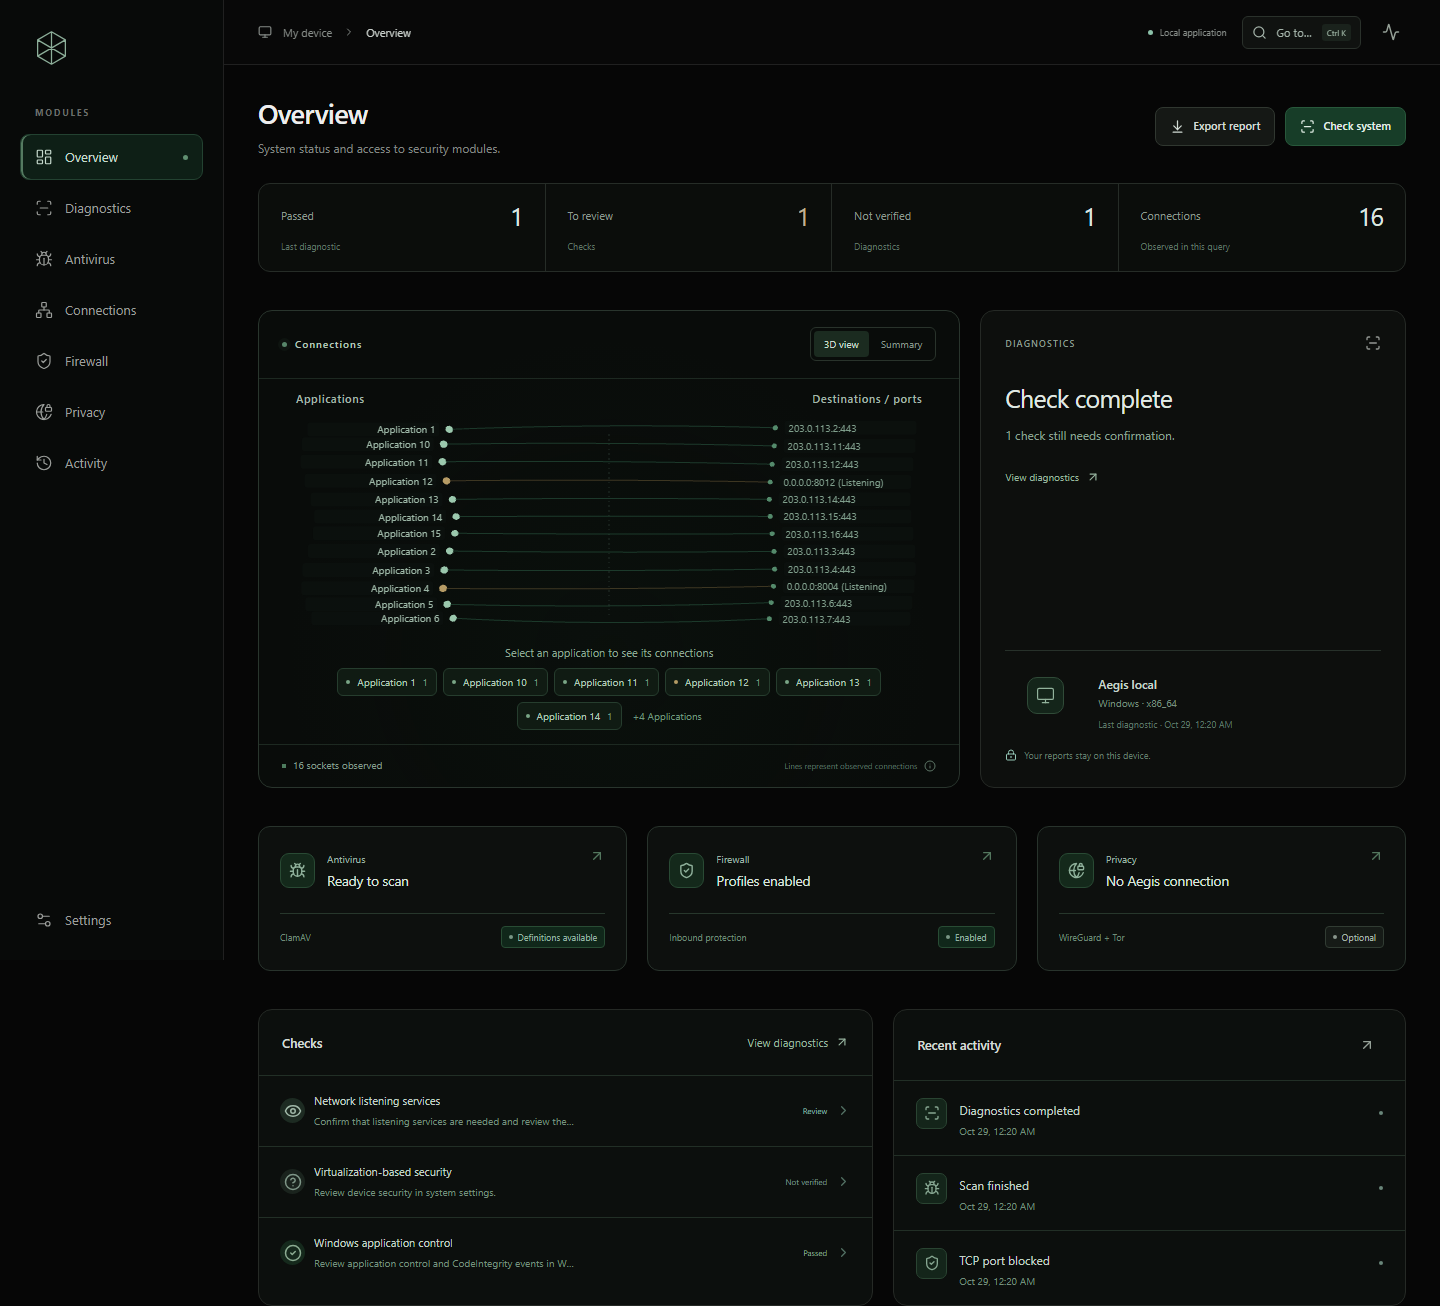
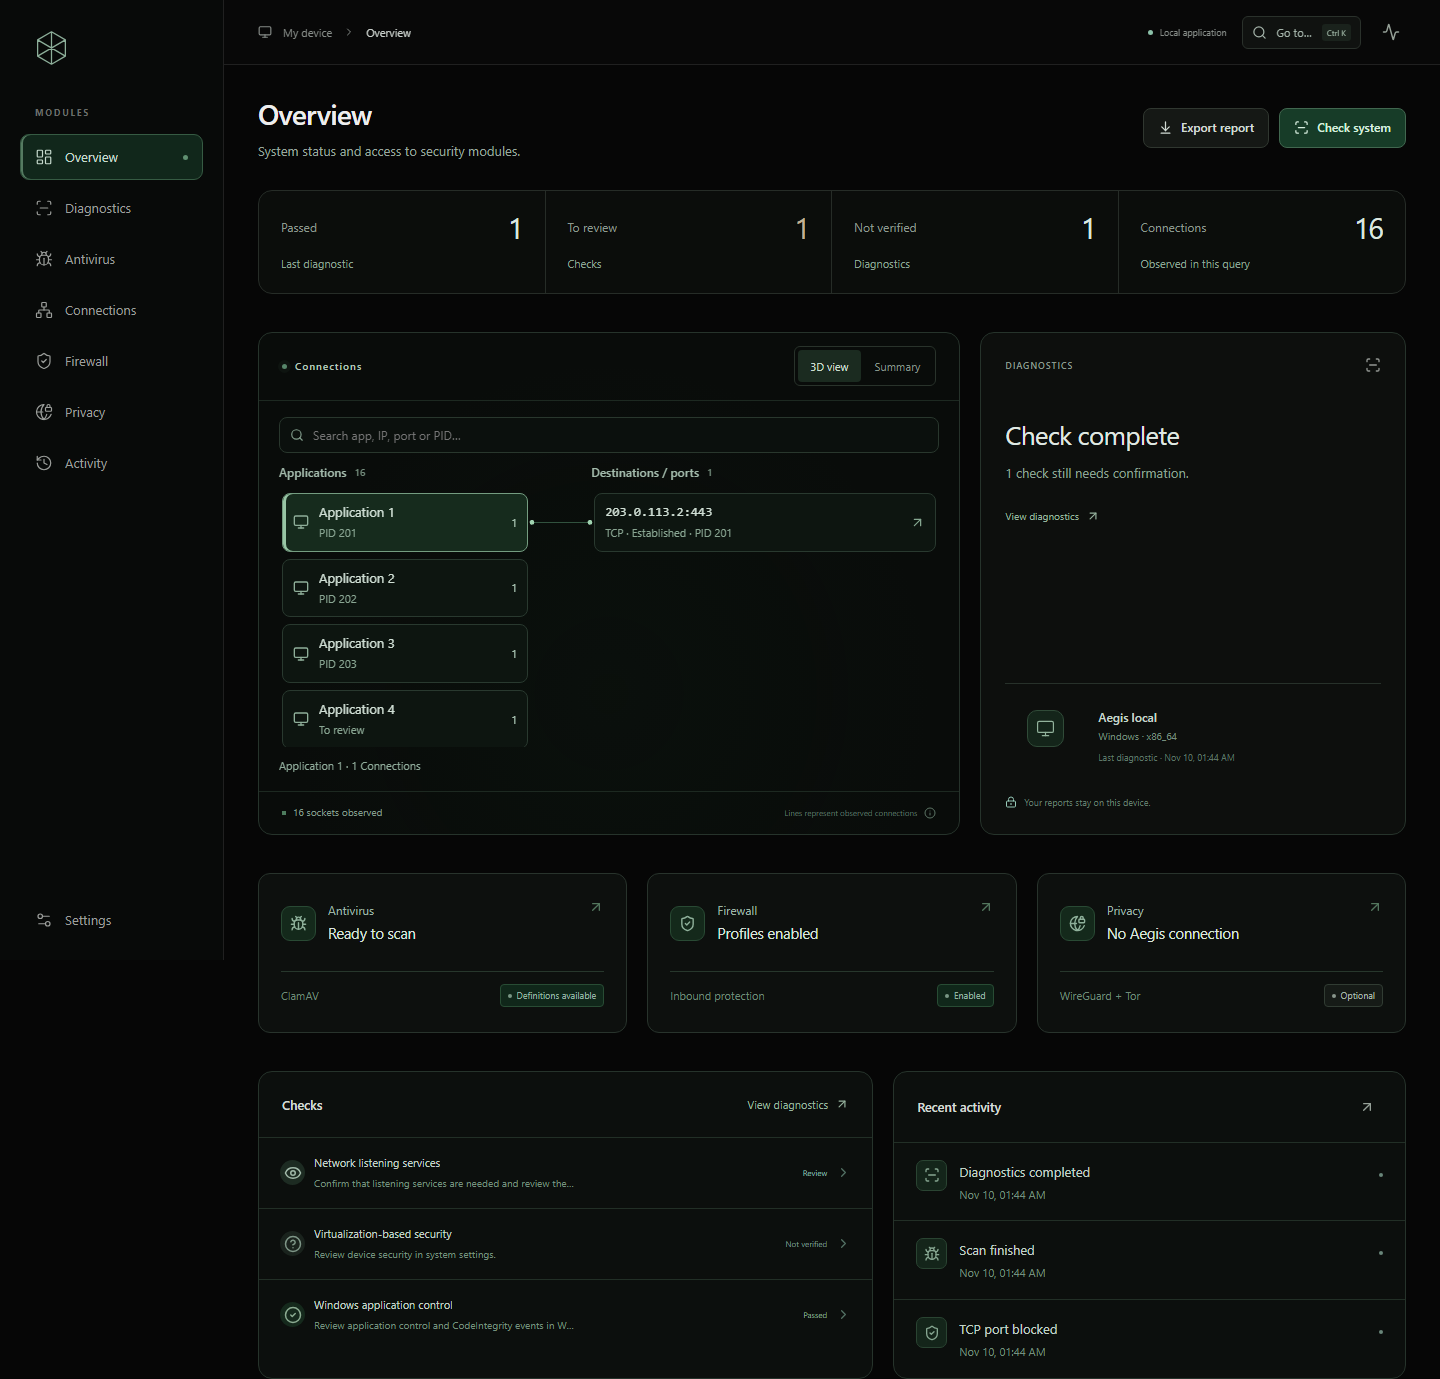
docs: refresh README and 1.0.2 interface screenshot

diff --git a/README.md b/README.md
@@ -1,6 +1,8 @@
 # Aegis
 
 [![Desktop checks](https://github.com/henji-ware/Aegis/actions/workflows/desktop.yml/badge.svg)](https://github.com/henji-ware/Aegis/actions/workflows/desktop.yml)
+[![Latest release](https://img.shields.io/github/v/release/henji-ware/Aegis)](https://github.com/henji-ware/Aegis/releases/latest)
+[![License: MIT](https://img.shields.io/badge/License-MIT-green.svg)](LICENSE)
 
 Free and open-source desktop security tools, built with **Tauri 2, Rust, React, TypeScript and Three.js**. Local configuration checks, on-demand ClamAV scanning, native firewall controls, WireGuard profiles and a local Tor proxy.
 
@@ -8,17 +10,37 @@ Free and open-source desktop security tools, built with **Tauri 2, Rust, React, 
 
 ## Download
 
-Installers are published in [GitHub Releases](https://github.com/henji-ware/Aegis/releases). Aegis 1.0 uses the stable release channel. Windows packages currently have no trusted Authenticode signature; macOS packages have no Developer ID signature or notarization. Operating system application-control policies may prevent execution. GitHub provenance attestations and checksums do not replace platform code signing.
+**[Download Aegis 1.0.2](https://github.com/henji-ware/Aegis/releases/tag/v1.0.2)** — stable release. Choose one package for your platform:
 
 | Platform | Packages | Architecture |
 |---|---|---|
-| Windows | NSIS `.exe`, `.msi`, no-install `.zip` | x64 |
-| Linux | `.deb`, `.rpm`, `.AppImage` | x64 |
-| macOS | `.dmg` | Apple silicon |
+| Windows | [EXE installer](https://github.com/henji-ware/Aegis/releases/download/v1.0.2/Aegis_1.0.2_x64-setup.exe) · [MSI installer](https://github.com/henji-ware/Aegis/releases/download/v1.0.2/Aegis_1.0.2_x64_en-US.msi) · [Portable ZIP](https://github.com/henji-ware/Aegis/releases/download/v1.0.2/Aegis_1.0.2_windows_x64_portable.zip) | x64 |
+| Linux | [DEB](https://github.com/henji-ware/Aegis/releases/download/v1.0.2/Aegis_1.0.2_amd64.deb) · [RPM](https://github.com/henji-ware/Aegis/releases/download/v1.0.2/Aegis-1.0.2-1.x86_64.rpm) · [AppImage](https://github.com/henji-ware/Aegis/releases/download/v1.0.2/Aegis_1.0.2_amd64.AppImage) | x64 |
+| macOS | [DMG](https://github.com/henji-ware/Aegis/releases/download/v1.0.2/Aegis_1.0.2_aarch64.dmg) | Apple silicon |
 
 The `.deb` targets Debian-family systems with WebKitGTK 4.1 and compatible native libraries. An installer build on Ubuntu does not imply that every Debian version or desktop environment has been tested. The release pipeline validates installation and removal on Debian 13. Package dependencies and the exact CI results are documented with each release.
 
-Extract the complete Windows ZIP and open `aegis-desktop.exe` without installing it. Keep its `engines` directory beside the executable. WebView2 remains a system prerequisite; application data uses your normal user profile. The ZIP does not register a Start menu shortcut or uninstaller.
+### Run on Windows without installing
+
+1. Download and extract the complete portable ZIP.
+2. Close any older Aegis instance, including its system-tray instance.
+3. Open `aegis-desktop.exe` inside the extracted folder. Keep the `engines` directory and all accompanying files together.
+
+WebView2 remains a system prerequisite; settings and history use your normal user profile. The portable build does not register a Start menu shortcut or uninstaller. Update it by extracting a new complete ZIP. Supported installed builds can check for updates in Settings.
+
+### Release files
+
+Version 1.0.2 reduces the published assets from **26 to 10**: the seven packages linked above, a macOS `.app.tar.gz` updater package, `latest.json`, and one [sources-and-notices archive](https://github.com/henji-ware/Aegis/releases/download/v1.0.2/Aegis_1.0.2_sources-and-notices.tar.gz).
+
+The updater uses `latest.json` and the macOS app archive automatically. The sources-and-notices archive groups corresponding third-party sources, licenses, documentation, `SHA256SUMS.txt`, build metadata and detached signatures. Signatures are also embedded in `latest.json`; separate `.sig` downloads are unnecessary for in-app updates. GitHub adds its own two source-code archives to the release page.
+
+### Changes in 1.0.2
+
+- Clearer typography, spacing and focus states, a responsive overview, and sticky headers in the connection table.
+- Search across local and remote ports, IPv6 endpoints, application names and PIDs, with surrounding whitespace ignored.
+- Named-application counts that do not count browser worker PIDs as separate applications.
+- Conservative evidence handling: unknown TCP states remain unverified, missing executable paths cannot produce a no-local-signals result, and review signals take precedence in the analysis report.
+- Fewer release downloads, with signed update compatibility and source/license availability preserved.
 
 ## Features
 
@@ -67,10 +89,16 @@ npm run package
 
 ## Validation and migration
 
-See [validation](docs/VALIDATION.md), [security](docs/SECURITY.md), [dependency review](docs/DEPENDENCY-REVIEW.md), [Windows compatibility](docs/WINDOWS-COMPATIBILITY.md) and [release notes](docs/RELEASE-NOTES.md). The screenshot uses illustrative test fixtures, not a claim about the current device.
+The [1.0.2 release workflow](https://github.com/henji-ware/Aegis/actions/runs/42758194727) passed frontend checks, dependency audits, native desktop checks and publication. The frontend suite includes nine tests and UI coverage across ten languages; native checks exercise engines, package installation and signed updater artifacts. Browser UI tests use a mocked native transport. Native Windows UI checks run separately in CI; package and engine checks on macOS do not imply a full interactive macOS GUI test.
+
+See [validation](docs/VALIDATION.md), [security](docs/SECURITY.md), [dependency review](docs/DEPENDENCY-REVIEW.md), [Windows compatibility](docs/WINDOWS-COMPATIBILITY.md) and [release notes](docs/RELEASE-NOTES.md). The screenshot shows the 1.0.2 interface with illustrative test data.
 
 Electron data is preserved when migrating. Compatible settings, history and firewall recovery information are copied to the Tauri store. VPN profiles need to be reimported into the new OS credential vault. An existing owned tunnel is retained for explicit recovery/disconnection when its configuration can be copied. Disconnect VPNs using the previous version before switching whenever possible. Invalid local data is preserved and recovered from its last valid backup instead of silently discarded.
 
-See [third-party notices](docs/THIRD-PARTY-NOTICES.txt) and [LICENSE](LICENSE). Corresponding engine source archives accompany releases. Build provenance can be verified using `gh attestation verify <installer> --repo henji-ware/Aegis`; verify SHA-256 values using the release checksum file as well.
+## Signatures and licenses
 
-Release checksums, build metadata, standalone signatures, third-party sources and notices are grouped in the release sources-and-notices archive. Keep latest.json available for in-app updates; its signatures authenticate the listed packages.
+Update packages have version-bound signatures. Windows packages currently have no trusted Authenticode signature, and macOS packages have no Developer ID signature or notarization. Operating-system application-control policies may prevent execution; updater signatures and GitHub provenance do not replace platform publisher certificates.
+
+See [third-party notices](docs/THIRD-PARTY-NOTICES.txt) and [LICENSE](LICENSE). Aegis source is MIT licensed; bundled components retain their own licenses. Corresponding engine sources accompany releases in the sources-and-notices archive.
+
+Verify build provenance with `gh attestation verify <installer> --repo henji-ware/Aegis`. Extract `SHA256SUMS.txt` from the sources-and-notices archive to check the downloaded package's SHA-256 value. Build metadata and detached signatures are available in that same archive.
